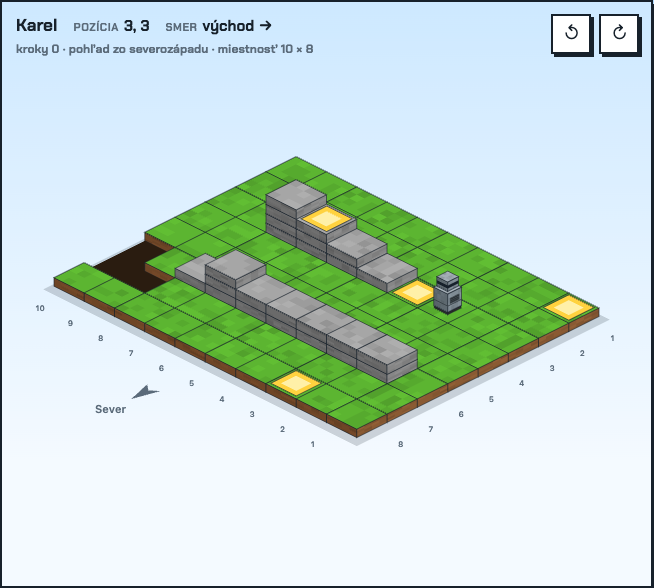
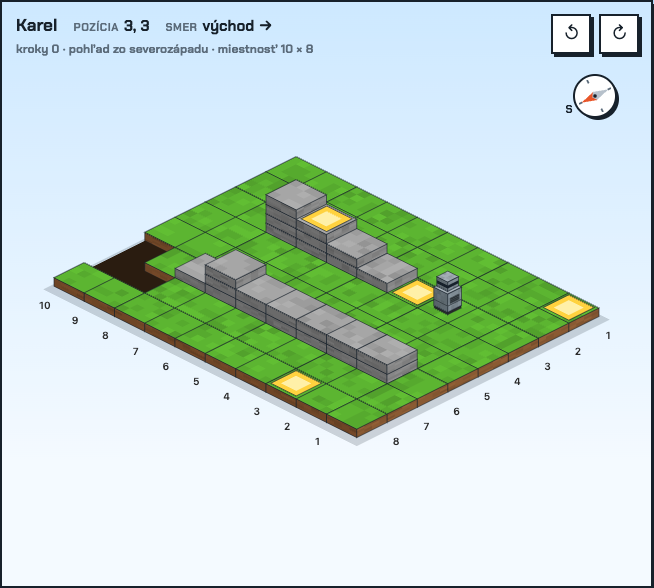
feat: a compass rose under the rotate buttons instead of an arrow by the map (#31)
North belongs next to the controls that turn the room. The rose's red
needle and its letter point where north is on the map and turn with the
view; the flat arrow by the map is gone, on the sheet too. The tile
numbers go back to their original size and ink, staying on each tile's
diagonal so they read as centred.

diff --git a/src/ui/render.ts b/src/ui/render.ts
@@ -96,8 +96,6 @@ export interface RenderOptions {
   ghost?: boolean;
   /** world tile to highlight on the floor (the one under the pointer) */
   hover?: [number, number] | null;
-  /** draw a small arrow outside the north edge of the room, pointing north, with this letter at the tip */
-  compass?: string;
 }
 
 export interface Layout {
@@ -336,58 +334,34 @@ export function renderWorld(canvas: HTMLCanvasElement, world: World, view: View,
     const [i1, j1] = map(dx, dy);
     return i1 - i0 + (j1 - j0) > 0;
   };
-  const quiet = opts.labelColor ?? '#5b6b7a'; // the same dim ink the pages use for secondary text
-
   if (opts.labels) {
     // like a chessboard: columns 1..w and rows 1..h (from the bottom), always on the two front edges so
     // brick stacks never cover them; which edges those are depends on the view. Each number sits on the
     // ground on its own tile's diagonal, clear of the floor's side face.
     const south = toward(0, 1);
     const east = toward(1, 0);
-    ctx.fillStyle = quiet;
-    ctx.font = `600 ${Math.max(8, Math.round(W * 0.27))}px system-ui, sans-serif`;
+    ctx.fillStyle = opts.labelColor ?? P.karelDark;
+    ctx.font = `600 ${Math.max(9, Math.round(W * 0.32))}px system-ui, sans-serif`;
     ctx.textAlign = 'center';
     ctx.textBaseline = 'middle';
     for (let x = 0; x < world.w; x++) {
-      const [px, py] = outside(x, south ? world.h - 1 : 0, 0, south ? 1 : -1, 1.45);
+      const [px, py] = outside(x, south ? world.h - 1 : 0, 0, south ? 1 : -1, 1.3);
       ctx.fillText(String(x + 1), px, py);
     }
     for (let y = 0; y < world.h; y++) {
-      const [px, py] = outside(east ? world.w - 1 : 0, y, east ? 1 : -1, 0, 1.45);
+      const [px, py] = outside(east ? world.w - 1 : 0, y, east ? 1 : -1, 0, 1.3);
       ctx.fillText(String(world.h - y), px, py);
     }
   }
+}
 
-  if (opts.compass) {
-    // a flat pointer lying on the ground a little way outside the middle of the north edge, aimed north,
-    // so it lines up with the room's grid in every view; the word for north sits beyond its tip
-    const mx = (world.w - 1) / 2;
-    const base = opts.labels && toward(0, -1) ? 2.2 : 1.1; // tiles outside the edge: past the numbers when they share the edge
-    const len = 0.75;
-    const at = (along: number, across: number): [number, number] => outside(mx + across, 0, 0, -1, base + along);
-    const [tx, ty] = at(len, 0);
-    const [lx, ly] = at(0, -0.22);
-    const [rx, ry] = at(0, 0.22);
-    const [nx, ny] = at(0.18, 0);
-    ctx.fillStyle = quiet;
-    ctx.beginPath();
-    ctx.moveTo(tx, ty);
-    ctx.lineTo(lx, ly);
-    ctx.lineTo(nx, ny);
-    ctx.lineTo(rx, ry);
-    ctx.closePath();
-    ctx.fill();
-    const [bx, by] = at(0, 0);
-    const dx = tx - bx;
-    const dy = ty - by;
-    const d = Math.hypot(dx, dy);
-    const ux = dx / d;
-    const uy = dy / d;
-    ctx.font = '600 11px system-ui, sans-serif';
-    ctx.textAlign = 'center';
-    ctx.textBaseline = 'middle';
-    const half = ctx.measureText(opts.compass).width / 2;
-    const push = 6 + half * Math.abs(ux) + 7 * Math.abs(uy); // the word's centre sits clear of the tip in any direction
-    ctx.fillText(opts.compass, tx + ux * push, ty + uy * push);
-  }
+/** Unit vector of world north on screen for a view: the direction a compass needle drawn over the map should take. */
+export function northOnScreen(view: View): [number, number] {
+  const { map } = rotated({ w: 2, h: 2 } as World, view);
+  const [i0, j0] = map(0, 0);
+  const [i1, j1] = map(0, -1);
+  const dx = i1 - i0 - (j1 - j0);
+  const dy = (i1 - i0 + (j1 - j0)) / 2;
+  const d = Math.hypot(dx, dy);
+  return [dx / d, dy / d];
 }

diff --git a/src/ui/main.ts b/src/ui/main.ts
@@ -8,7 +8,7 @@ import { allKeywordWords, isLocaleId, locales, normalize, type Locale, type Loca
 import { Driver } from './driver';
 import { Editor } from './editor';
 import { mountLangSwitch, resolveLocale } from './header';
-import { pickTile, renderWorld, type View } from './render';
+import { northOnScreen, pickTile, renderWorld, type View } from './render';
 
 const DEFAULT_ROOM = '1.10x8.2,5,0.2AB7A8A2zA5EGCAz10A10A3ABCEHI2A8ABAB9A';
 const DEFAULT_PROGRAM: Record<LocaleId, string> = {
@@ -130,8 +130,29 @@ function t(key: string): string {
 // what the renderer and the hit test must agree on
 const LAYOUT = { labels: true } as const;
 
+/** A small compass rose under the rotate buttons: the red needle and the letter point where north is on the map. */
+function drawCompass(): void {
+  const [ux, uy] = northOnScreen(view);
+  const angle = (Math.atan2(uy, ux) * 180) / Math.PI + 90; // the needle is drawn pointing up
+  const lx = (ux * 29).toFixed(1);
+  const ly = (uy * 29).toFixed(1);
+  $('compass').innerHTML =
+    `<svg viewBox="-32 -32 64 64" aria-label="${t('compassNorth')}">` +
+    `<circle cx="3" cy="3" r="21" fill="var(--ink)"/>` +
+    `<circle r="21" fill="#fff" stroke="var(--ink)" stroke-width="2"/>` +
+    `<g transform="rotate(${angle.toFixed(1)})" stroke-linecap="round">` +
+    `<path d="M0 -17.5v3M0 14.5v3M-17.5 0h3M14.5 0h3" stroke="var(--dim)" stroke-width="1.5"/>` +
+    `<polygon points="0,-15 4.5,0 0,3 -4.5,0" fill="var(--red)"/>` +
+    `<polygon points="0,15 4.5,0 0,-3 -4.5,0" fill="#b7c1cb"/>` +
+    `<circle r="1.8" fill="var(--ink)"/>` +
+    `</g>` +
+    `<text x="${lx}" y="${ly}" text-anchor="middle" dominant-baseline="central" font-family="Chakra Petch, system-ui, sans-serif" font-size="11" font-weight="700" fill="var(--ink)">${t('compassNorth')}</text>` +
+    `</svg>`;
+}
+
 function draw(): void {
-  renderWorld(canvas, world, view, undefined, { ...LAYOUT, compass: t('north'), ...(editing ? { ghost: true, hover } : {}) });
+  renderWorld(canvas, world, view, undefined, { ...LAYOUT, ...(editing ? { ghost: true, hover } : {}) });
+  drawCompass();
   canvas.classList.toggle('edit', editing);
   const dirs = t('dirs').split(',');
   const views = t('views').split(',');

diff --git a/app/index.html b/app/index.html
@@ -24,8 +24,11 @@
         <div class="world">
           <div class="hud" id="hud"></div>
           <div class="rot">
-            <button id="rotL" title="">↺</button>
-            <button id="rotR" title="">↻</button>
+            <div class="btns">
+              <button id="rotL" title="">↺</button>
+              <button id="rotR" title="">↻</button>
+            </div>
+            <div class="compass" id="compass"></div>
           </div>
           <canvas id="cv"></canvas>
         </div>

diff --git a/tasks/tasks.ts b/tasks/tasks.ts
@@ -105,7 +105,7 @@ function render(): void {
     const el = document.getElementById(id) as HTMLCanvasElement | null;
     if (el) {
       const top = Math.max(1, ...Object.values(w.bricks ?? {})) + 1; // room for the stacks plus Karel's head
-      renderWorld(el, toWorld(w), 0, OVERWORLD, { labels: true, levels: top, compass: locales[locale].ui['north'] ?? 'N' });
+      renderWorld(el, toWorld(w), 0, OVERWORLD, { labels: true, levels: top });
     }
   }
 

diff --git a/src/ui/style.css b/src/ui/style.css
@@ -96,7 +96,24 @@ canvas {
   right: 12px;
   top: 12px;
   display: flex;
+  flex-direction: column;
+  align-items: center;
+  gap: 10px;
+}
+.rot .btns {
+  display: flex;
   gap: 8px;
+}
+.compass {
+  width: 64px;
+  height: 64px;
+  pointer-events: none;
+}
+.compass svg {
+  display: block;
+  width: 100%;
+  height: 100%;
+  overflow: visible;
 }
 .rot button {
   width: 40px;

diff --git a/src/lang/cs.ts b/src/lang/cs.ts
@@ -72,7 +72,7 @@ export const cs: Locale = {
     copied: 'Odkaz zkopírován.',
     steps: 'kroky',
     view: 'pohled',
-    north: 'Sever',
+    compassNorth: 'S',
     position: 'pozice',
     direction: 'směr',
     dirs: 'východ,sever,západ,jih',

diff --git a/src/lang/sk.ts b/src/lang/sk.ts
@@ -71,7 +71,7 @@ export const sk: Locale = {
     karel: 'Karel',
     steps: 'kroky',
     view: 'pohľad',
-    north: 'Sever',
+    compassNorth: 'S',
     position: 'pozícia',
     direction: 'smer',
     dirs: 'východ,sever,západ,juh',

diff --git a/src/lang/en.ts b/src/lang/en.ts
@@ -71,7 +71,7 @@ export const en: Locale = {
     karel: 'Karel',
     steps: 'steps',
     view: 'view',
-    north: 'North',
+    compassNorth: 'N',
     position: 'position',
     direction: 'direction',
     dirs: 'east,north,west,south',
